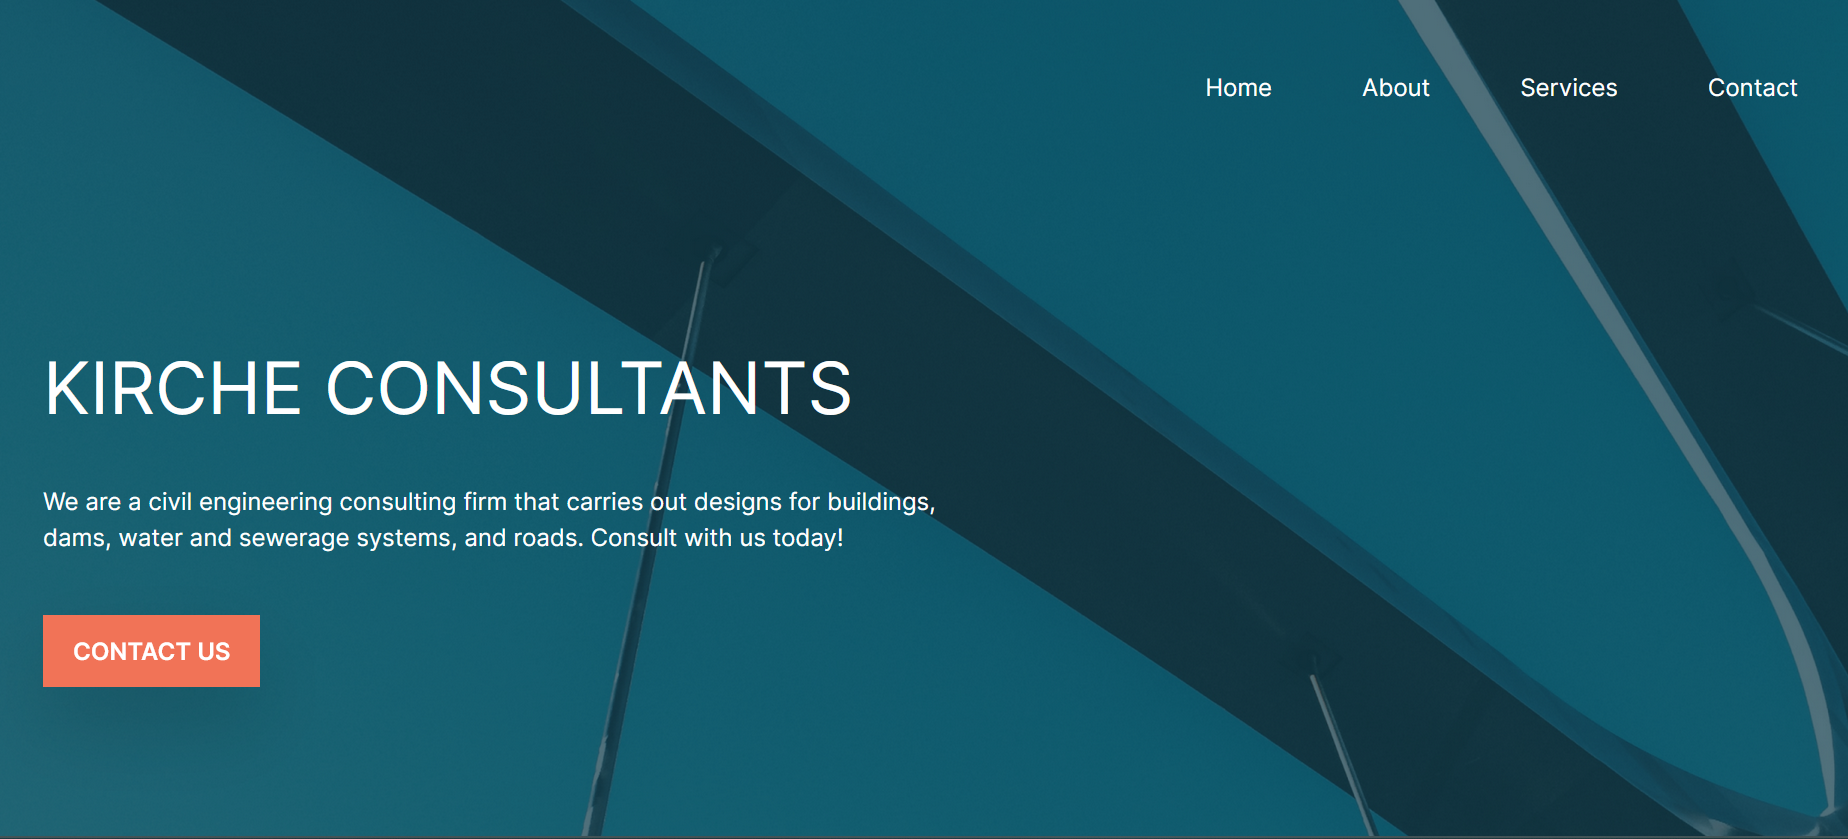
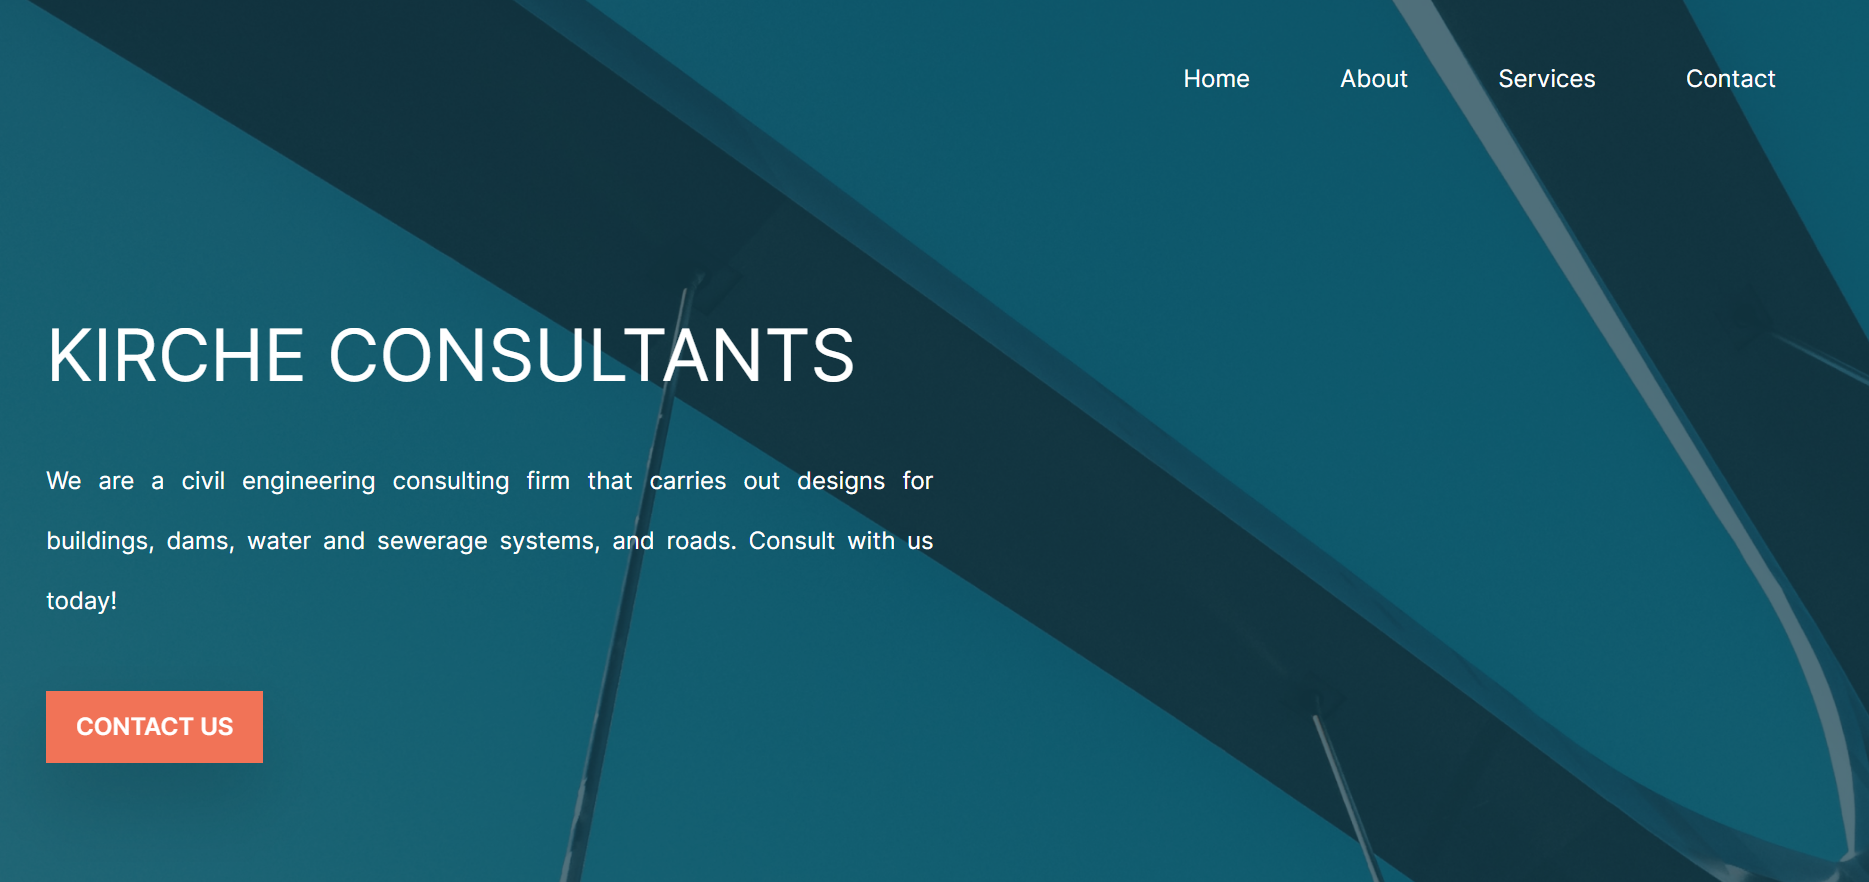
fixed images

diff --git a/pages/index.js b/pages/index.js
@@ -7,7 +7,7 @@ import design from '../public/images/design.png'
 import code from '../public/images/code.png'
 import consulting from '../public/images/consulting.png'
 
-import ui1 from '../public/images/kirche.png'
+import ui1 from '../public/images/kirche4.png'
 import ui4 from '../public/images/computerco.png'
 import ui7 from '../public/images/animation.png'
 import ui8 from '../public/images/afyaweb2.png'
@@ -110,7 +110,7 @@ export default function Home() {
         </div>
         <div className='grid grid-cols-2 gap-10 py-10 max-md:grid-cols-1'> 
           <div>
-            <a href="https://kirche.netlify.app/" target="_blank"><Image src={ui1} className="rounded-lg object-fill h-80"/></a>
+          <a href="https://kirche.netlify.app/" target="_blank"><Image src={ui1} className="rounded-lg object-center h-80"/></a>
           </div>
           <div>
             <a href="https://computerco.netlify.app/" target="_blank"><Image src={ui4} className="rounded-lg object-cover h-80"/></a>
